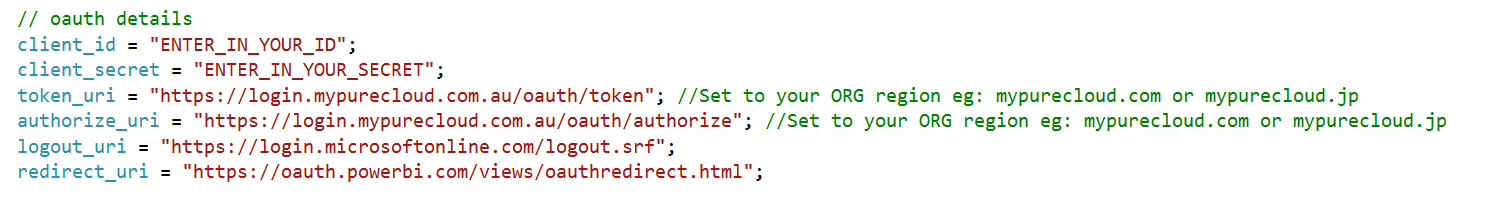
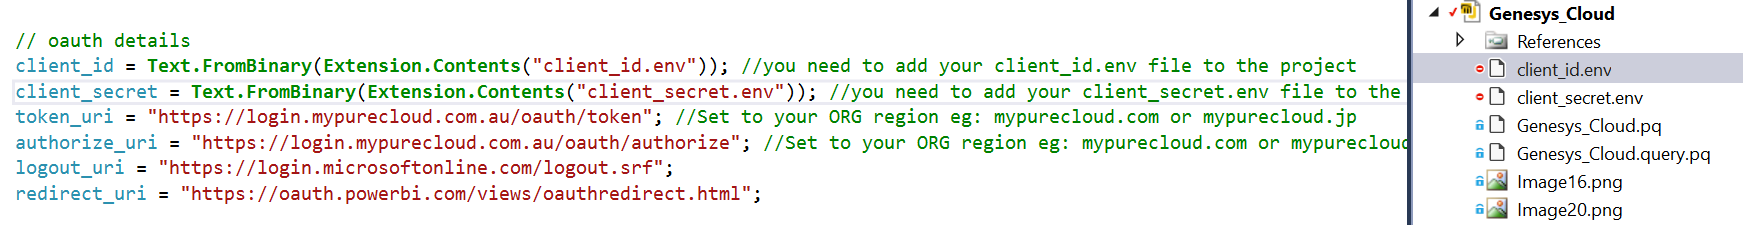
updated documentation for new Auth file usage

Changed region(s): [[0.0, 0.0, 1.0, 1.0]]

diff --git a/README.md b/README.md
@@ -5,7 +5,7 @@ This current example uses "Authorization code" grant to OAuth2 to your Genesys C
 
 ![](/docs/images/screenShot1.png?raw=true)
 
-You will then need to configure the "client_id" & "client_secret" to your own as well as the ORG location. In my example im based in Australia so i have used "mypurecloud.com.au" if your in a different region this will need to be changed.
+You will then need to create 2 files "client_id.env" & "client_secret.env" with your OAuth details and add them into your project. You will need to ensure that they are also set to "Compile" as the build action to ensure they are included int eh .mez file thats built as well as set the the ORG location in the raw code. In my example im based in Australia so i have used "mypurecloud.com.au" if your in a different region this will need to be changed.
 
 ![](/docs/images/screenShot2.png?raw=true)
 
